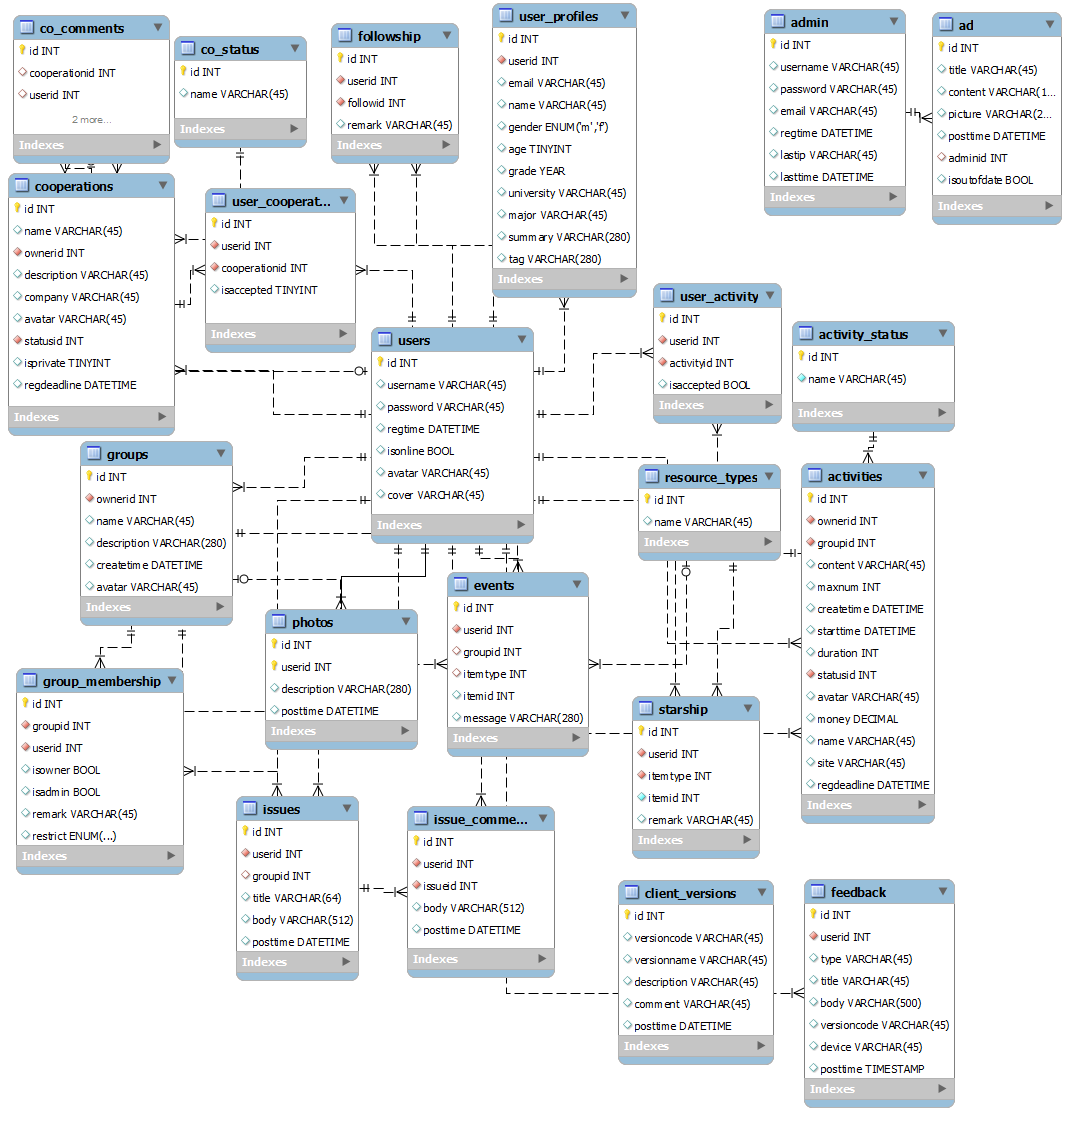
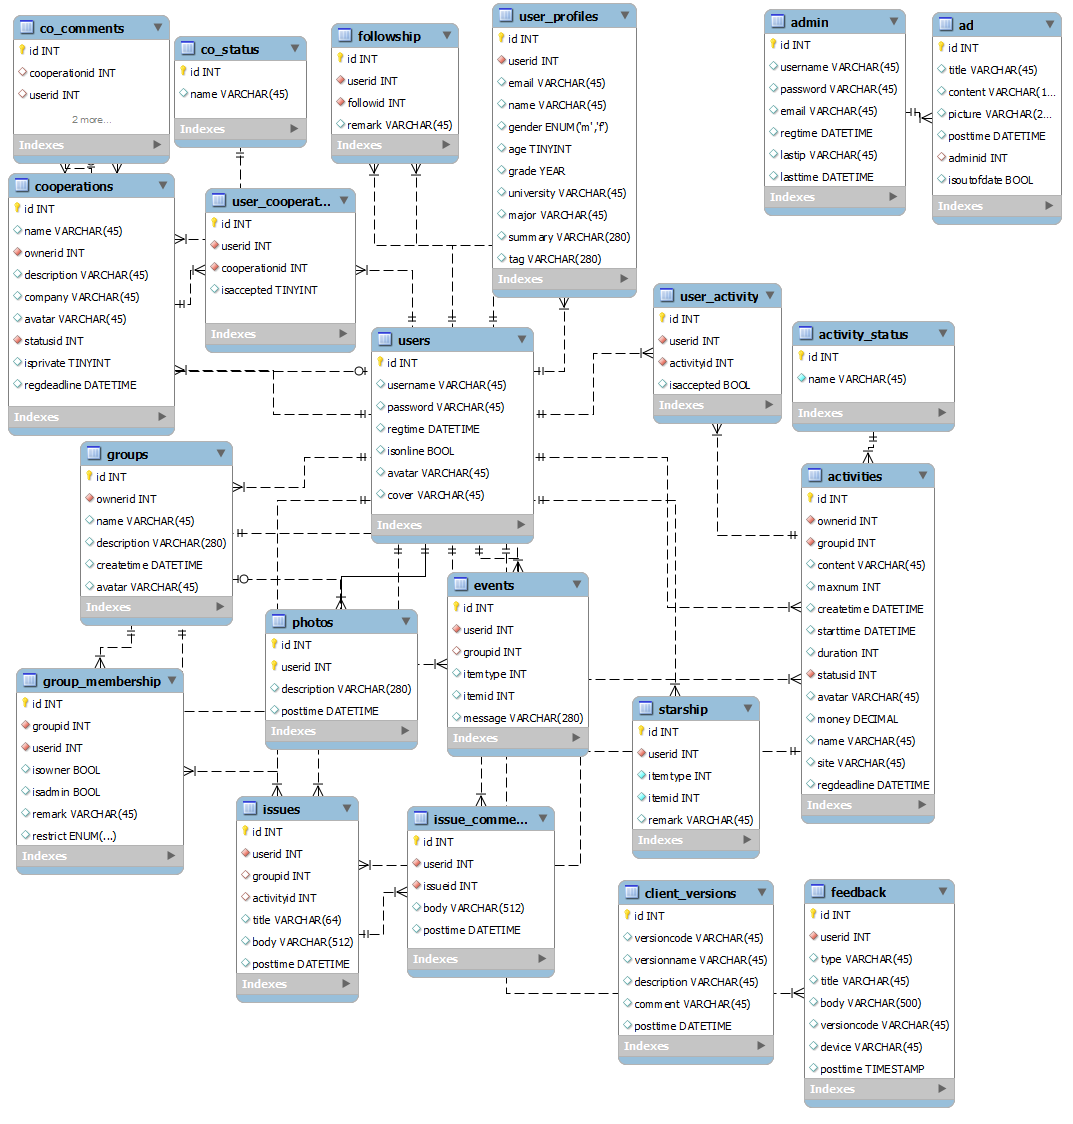
添加“活动分享”

Changed region(s): [[0.5843, 0.4048, 0.7381, 0.5294], [0.2153, 0.7785, 0.3383, 0.903]]

diff --git a/routes/issues.js b/routes/issues.js
@@ -17,6 +17,7 @@ module.exports = function (app) {
 	 * @param {Number} [userid] 作者ID
 	 * @param {String} [title] 标题
 	 * @param {String} [groupid] 圈子id，不传值表示校友交流，传值表示圈内分享
+	 * @param {String} [activityid] 活动id，不传值表示校友交流，传值表示活动分享
 	 * @return {JSON}
 	 */
 	app.get('/api/issues/find', function (req, res, next) {
@@ -33,6 +34,7 @@ module.exports = function (app) {
 	 * @param {String} [title] 标题关键字
 	 * @param {String} [body] 内容关键字
 	 * @param {String} [groupid] 圈子id，不传值表示校友交流，传值表示圈内分享
+	 * @param {String} [activityid] 活动id，不传值表示校友交流，传值表示活动分享
 	 * @return {JSON}
 	 */
 	app.get('/api/issues/search', function (req, res, next) {
@@ -56,11 +58,13 @@ module.exports = function (app) {
 	});
 
 	/**
-	 * POST /api/issues/post
+	 * POST /api/issues/post <br/>
+	 * 注意：groupid与activityid是二选一的
 	 * @method 发布话题
 	 * @param {String} title 标题
 	 * @param {String} body 内容
 	 * @param {String} [groupid] 圈子id，不传值表示校友交流，传值表示圈内分享
+	 * @param {String} [activityid] 活动id，不传值表示校友交流，传值表示活动分享
 	 * @return {JSON}
 	 */
 	app.post('/api/issues/post', function (req, res, next) {

diff --git a/models/issue.js b/models/issue.js
@@ -11,7 +11,7 @@ var Promise = require('bluebird'),
 Issue = module.exports = syBookshelf.Model.extend({
 	tableName: 'issues',
 	fields: [
-		'id', 'userid', 'groupid', 'title', 'body', 'posttime'
+		'id', 'userid', 'groupid', 'activityid', 'title', 'body', 'posttime'
 	],
 	omitInJSON: ['userid'],
 	appended: ['user'],
@@ -78,8 +78,9 @@ Issues = Issue.Set = syBookshelf.Collection.extend({
 	model: Issue
 }, {
 	finder: function (qb, query) {
-		var k = 'groupid';
-		query[k] ? qb.where(k, query[k]) : qb.whereNull(k);//如果groupid没有传值，就要给他取null
+		['groupid', 'activityid'].forEach(function(k){
+			query[k] ? qb.where(k, query[k]) : qb.whereNull(k);//如果没有传值，就要给他取null
+		});
 		['id', 'userid', 'title'].forEach(function (k) {
 			if (k in query) {
 				qb.where(k, query[k]);
@@ -89,8 +90,9 @@ Issues = Issue.Set = syBookshelf.Collection.extend({
 
 	searcher: function (qb, query) {
 		var count = 0;
-		var k = 'groupid';
-		query[k] ? qb.where(k, query[k]) : qb.whereNull(k);//如果groupid没有传值，就要给他取null
+		['groupid', 'activityid'].forEach(function(k){
+			query[k] ? qb.where(k, query[k]) : qb.whereNull(k);//如果没有传值，就要给他取null
+		});
 		['userid'].forEach(function (k) {
 			if (k in query) {
 				count++;
